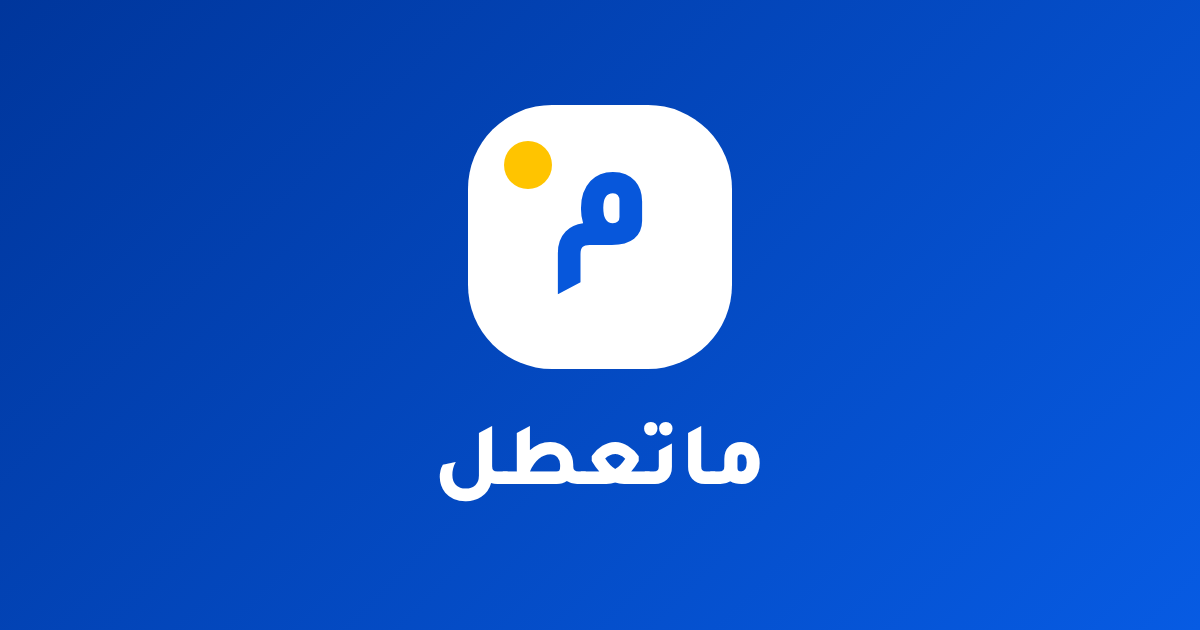
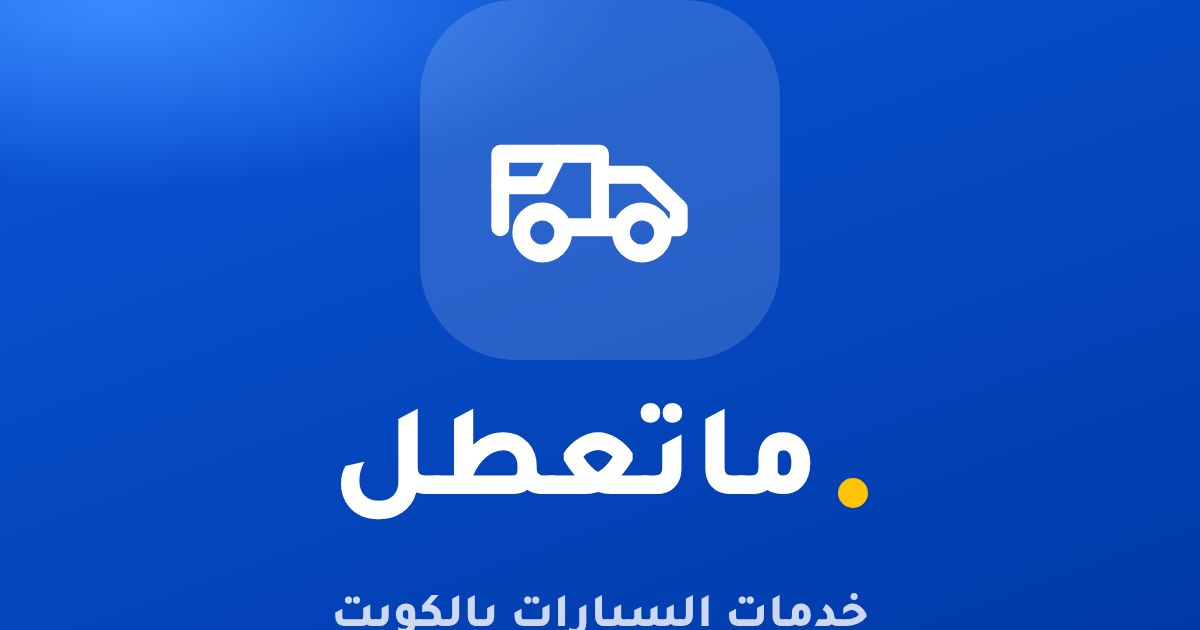
أيقونة تطبيق ماتعطل الجديدة + تحميل التطبيق بضغطة
- أيقونة الشاشة الرئيسية: سطحة واسم ماتعطل والنقطة الصفراء على الأزرق
- شاشات افتتاحية جديدة للآيفون
- زر «تحميل»: تثبيت مباشر على أندرويد/كروم، وشرح مصوّر على الآيفون
- بطاقة التحميل صارت أعلى الرئيسية مع أيقونة التطبيق

Claude-Session: https://claude.ai/code/session_0146Lf518ZNvSUDuRn6RZiVQ

diff --git a/js/app.js b/js/app.js
@@ -6,7 +6,7 @@ import {
 } from './core.js';
 
 initSession('local');
-const VERSION = '4.2.0';
+const VERSION = '4.3.0';
 const COLS = 'id,service_id,name,phone,whatsapp,price_text,rating,rating_count,logo_url,cover_url,photos,description,address,lat,lng,is_24h,is_available,created_at,featured_until,is_sample,company_areas(areas(name_ar)),company_services(service_id)';
 
 /* ================= الحالة ================= */
@@ -219,6 +219,7 @@ function pgHome() {
       <div class="greet"><small>${new Date().getHours() < 12 ? 'صباح الخير' : 'مساء الخير'} 👋</small><h1>وين ما تعطلت...<br>إحنا قريبين منك.</h1></div></div>
     <div class="search-float"><a class="sbtn" href="#/search" aria-label="بحث">${icon('search')}</a><a class="sph" href="#/search">ابحث عن سطحة، بنشر، مفاتيح...</a><a class="sflt" href="#/categories" aria-label="الفلاتر">${icon('filter')}</a></div>
     <a class="sos" href="#/s/tow"><span class="ic">${icon('siren')}</span><span class="t"><b>سيارتك تعطلت؟</b><small>اطلب سطحة الآن وتواصل مباشرة</small></span>${icon('arrowL', 'go')}</a>
+    ${installCard()}
     ${maint ? `<div class="pad" style="margin-top:12px"><div class="note y">${icon('info')}<div>${esc(maint)}</div></div></div>` : ''}
     ${S.err && !S.loaded ? errBox() : ''}
     ${homeAds.length || S.banners.length ? `<section class="sec">${carousel(items.slice(0, homeAds.length + S.banners.length))}</section>` : ''}
@@ -227,7 +228,6 @@ function pgHome() {
     ${featured}
     ${!homeAds.length && !S.banners.length ? `<section class="sec">${carousel(promos())}</section>` : ''}
     <section class="sec"><div class="sec-h"><h2>أحدث مقدمي الخدمات</h2></div>${latest}</section>
-    ${installCard()}
     <div class="footer-note">ماتعطل · منصة خدمات السيارات في الكويت<br>التواصل والدفع يتم مباشرة بينك وبين مقدم الخدمة.</div>`,
     after: el => { initCarousel(el); },
   };
@@ -235,7 +235,7 @@ function pgHome() {
 function installCard() {
   const standalone = matchMedia('(display-mode: standalone)').matches || navigator.standalone;
   if (standalone || store.get('installDismiss')) return '';
-  return `<div class="install-card"><span class="ic">م</span><div style="flex:1"><b>ثبّت تطبيق ماتعطل</b><small>أضفه لشاشتك الرئيسية لوصول أسرع</small></div><button class="btn sm primary" data-act="install">تثبيت</button></div>`;
+  return `<div class="install-card"><img class="app-ic" src="icons/icon-192.png" alt="أيقونة ماتعطل" width="52" height="52"><div style="flex:1"><b>حمّل تطبيق ماتعطل</b><small>أيقونة على شاشتك الرئيسية — يفتح مثل التطبيق</small></div><button class="btn sm primary" data-act="install">${icon('download')}تحميل</button><button class="icon-btn clear" data-act="install-hide" aria-label="إخفاء" style="width:32px;height:32px">${icon('close')}</button></div>`;
 }
 function initCarousel(root) {
   const c = $('[data-carousel]', root); if (!c) return;
@@ -887,6 +887,8 @@ const ACT = {
   'del-ad': async el => { if (!(await confirmBox('إلغاء طلب الإعلان؟', { ok: 'إلغاء الطلب', danger: true }))) return; try { await rest('ad_campaigns?id=eq.' + (+el.dataset.id), { method: 'DELETE' }); toast('تم إلغاء الطلب'); render(true); } catch (e) { toast(errText(e), 'err'); } },
   'clear-recent': () => { S.recent = []; store.set('recent', []); render(true); },
   install: () => installApp(),
+  'install-hide': () => { store.set('installDismiss', 1); render(true); },
+  'copy-link': async () => { try { await navigator.clipboard.writeText(location.origin + location.pathname); toast('تم نسخ الرابط — افتحه في Safari', 'ok'); } catch (_) { toast(location.origin); } },
   theme: () => { const order = ['auto', 'light', 'dark']; const cur = store.get('theme', 'auto'); const n = order[(order.indexOf(cur) + 1) % 3]; store.set('theme', n); applyTheme(); render(true); },
   goreg: (el, e) => { e.preventDefault(); go('/auth'); setTimeout(() => { const b = $('.seg button[data-mode="register"]'); b && b.click(); }, 50); },
 };
@@ -922,13 +924,28 @@ document.addEventListener('input', e => {
 /* ================= PWA ================= */
 addEventListener('beforeinstallprompt', e => { e.preventDefault(); S.installEvt = e; });
 async function installApp() {
-  if (S.installEvt) { S.installEvt.prompt(); try { await S.installEvt.userChoice; } catch (_) { } S.installEvt = null; store.set('installDismiss', 1); render(true); return; }
-  const ios = /iphone|ipad|ipod/i.test(navigator.userAgent);
-  sheet(`<div class="sheet-h"><h3>تثبيت ماتعطل</h3><button class="icon-btn clear" data-close>${icon('close')}</button></div><div class="sheet-body">
-    ${ios ? `<div class="steps" style="margin:0"><div><span>1</span>اضغط زر المشاركة ${icon('share')} أسفل Safari</div><div><span>2</span>اختر «إضافة إلى الشاشة الرئيسية»</div><div><span>3</span>اضغط «إضافة»</div></div>`
-      : `<div class="steps" style="margin:0"><div><span>1</span>افتح قائمة المتصفح (⋮)</div><div><span>2</span>اختر «تثبيت التطبيق» أو «إضافة إلى الشاشة الرئيسية»</div></div>`}
-    <button class="btn ghost block" data-act="install-dismiss" data-close>تم</button></div>`);
-  store.set('installDismiss', 1);
+  // أندرويد/كروم/إيدج: تثبيت مباشر بضغطة واحدة
+  if (S.installEvt) {
+    const ev = S.installEvt; S.installEvt = null;
+    ev.prompt(); let ok = false; try { ok = (await ev.userChoice).outcome === 'accepted'; } catch (_) { }
+    if (ok) { store.set('installDismiss', 1); toast('تم تحميل ماتعطل على شاشتك الرئيسية', 'ok'); render(true); }
+    return;
+  }
+  const ua = navigator.userAgent, ios = /iphone|ipad|ipod/i.test(ua) || (/Macintosh/.test(ua) && navigator.maxTouchPoints > 1);
+  const iosOther = ios && /CriOS|FxiOS|EdgiOS|OPiOS|GSA|FBAN|FBAV|Instagram|Snapchat/i.test(ua);
+  const head = `<div class="inst-head"><img src="icons/icon-192.png" alt="" width="72" height="72"><div><b>ماتعطل</b><small>mat3tl.com</small></div></div>`;
+  let body;
+  if (iosOther) body = `<div class="note y">${icon('info')}<div>على الآيفون التحميل يشتغل من <b>Safari</b> فقط. انسخ الرابط وافتحه في Safari.</div></div>
+    <button class="btn primary block" data-act="copy-link">${icon('share')}نسخ الرابط</button>`;
+  else if (ios) body = `<div class="inst-steps">
+      <div class="st"><span class="n">1</span><span class="tx">اضغط زر <b>المشاركة</b> أسفل الشاشة</span><span class="vis">${icon('share')}</span></div>
+      <div class="st"><span class="n">2</span><span class="tx">اختر <b>«إضافة إلى الشاشة الرئيسية»</b></span><span class="vis">${icon('plus')}</span></div>
+      <div class="st"><span class="n">3</span><span class="tx">اضغط <b>«إضافة»</b> — تظهر أيقونة ماتعطل على شاشتك</span><span class="vis app"><img src="icons/icon-96.png" alt=""></span></div></div>
+    <div class="inst-arrow">${icon('chevD')}زر المشاركة تحت ${icon('chevD')}</div>`;
+  else body = `<div class="inst-steps">
+      <div class="st"><span class="n">1</span><span class="tx">افتح قائمة المتصفح <b>⋮</b> فوق</span><span class="vis">⋮</span></div>
+      <div class="st"><span class="n">2</span><span class="tx">اختر <b>«تثبيت التطبيق»</b> أو <b>«إضافة إلى الشاشة الرئيسية»</b></span><span class="vis app"><img src="icons/icon-96.png" alt=""></span></div></div>`;
+  sheet(`<div class="sheet-h"><h3>تحميل تطبيق ماتعطل</h3><button class="icon-btn clear" data-close>${icon('close')}</button></div><div class="sheet-body">${head}${body}<button class="btn ghost block" data-close>تم</button></div>`);
 }
 function applyTheme() { const t = store.get('theme', 'auto'); t === 'auto' ? document.documentElement.removeAttribute('data-theme') : document.documentElement.setAttribute('data-theme', t); }
 applyTheme();

diff --git a/preview/js/app.js b/preview/js/app.js
@@ -6,7 +6,7 @@ import {
 } from './core.js';
 
 initSession('local');
-const VERSION = '4.2.0';
+const VERSION = '4.3.0';
 const COLS = 'id,service_id,name,phone,whatsapp,price_text,rating,rating_count,logo_url,cover_url,photos,description,address,lat,lng,is_24h,is_available,created_at,featured_until,is_sample,company_areas(areas(name_ar)),company_services(service_id)';
 
 /* ================= الحالة ================= */
@@ -219,6 +219,7 @@ function pgHome() {
       <div class="greet"><small>${new Date().getHours() < 12 ? 'صباح الخير' : 'مساء الخير'} 👋</small><h1>وين ما تعطلت...<br>إحنا قريبين منك.</h1></div></div>
     <div class="search-float"><a class="sbtn" href="#/search" aria-label="بحث">${icon('search')}</a><a class="sph" href="#/search">ابحث عن سطحة، بنشر، مفاتيح...</a><a class="sflt" href="#/categories" aria-label="الفلاتر">${icon('filter')}</a></div>
     <a class="sos" href="#/s/tow"><span class="ic">${icon('siren')}</span><span class="t"><b>سيارتك تعطلت؟</b><small>اطلب سطحة الآن وتواصل مباشرة</small></span>${icon('arrowL', 'go')}</a>
+    ${installCard()}
     ${maint ? `<div class="pad" style="margin-top:12px"><div class="note y">${icon('info')}<div>${esc(maint)}</div></div></div>` : ''}
     ${S.err && !S.loaded ? errBox() : ''}
     ${homeAds.length || S.banners.length ? `<section class="sec">${carousel(items.slice(0, homeAds.length + S.banners.length))}</section>` : ''}
@@ -227,7 +228,6 @@ function pgHome() {
     ${featured}
     ${!homeAds.length && !S.banners.length ? `<section class="sec">${carousel(promos())}</section>` : ''}
     <section class="sec"><div class="sec-h"><h2>أحدث مقدمي الخدمات</h2></div>${latest}</section>
-    ${installCard()}
     <div class="footer-note">ماتعطل · منصة خدمات السيارات في الكويت<br>التواصل والدفع يتم مباشرة بينك وبين مقدم الخدمة.</div>`,
     after: el => { initCarousel(el); },
   };
@@ -235,7 +235,7 @@ function pgHome() {
 function installCard() {
   const standalone = matchMedia('(display-mode: standalone)').matches || navigator.standalone;
   if (standalone || store.get('installDismiss')) return '';
-  return `<div class="install-card"><span class="ic">م</span><div style="flex:1"><b>ثبّت تطبيق ماتعطل</b><small>أضفه لشاشتك الرئيسية لوصول أسرع</small></div><button class="btn sm primary" data-act="install">تثبيت</button></div>`;
+  return `<div class="install-card"><img class="app-ic" src="icons/icon-192.png" alt="أيقونة ماتعطل" width="52" height="52"><div style="flex:1"><b>حمّل تطبيق ماتعطل</b><small>أيقونة على شاشتك الرئيسية — يفتح مثل التطبيق</small></div><button class="btn sm primary" data-act="install">${icon('download')}تحميل</button><button class="icon-btn clear" data-act="install-hide" aria-label="إخفاء" style="width:32px;height:32px">${icon('close')}</button></div>`;
 }
 function initCarousel(root) {
   const c = $('[data-carousel]', root); if (!c) return;
@@ -887,6 +887,8 @@ const ACT = {
   'del-ad': async el => { if (!(await confirmBox('إلغاء طلب الإعلان؟', { ok: 'إلغاء الطلب', danger: true }))) return; try { await rest('ad_campaigns?id=eq.' + (+el.dataset.id), { method: 'DELETE' }); toast('تم إلغاء الطلب'); render(true); } catch (e) { toast(errText(e), 'err'); } },
   'clear-recent': () => { S.recent = []; store.set('recent', []); render(true); },
   install: () => installApp(),
+  'install-hide': () => { store.set('installDismiss', 1); render(true); },
+  'copy-link': async () => { try { await navigator.clipboard.writeText(location.origin + location.pathname); toast('تم نسخ الرابط — افتحه في Safari', 'ok'); } catch (_) { toast(location.origin); } },
   theme: () => { const order = ['auto', 'light', 'dark']; const cur = store.get('theme', 'auto'); const n = order[(order.indexOf(cur) + 1) % 3]; store.set('theme', n); applyTheme(); render(true); },
   goreg: (el, e) => { e.preventDefault(); go('/auth'); setTimeout(() => { const b = $('.seg button[data-mode="register"]'); b && b.click(); }, 50); },
 };
@@ -922,13 +924,28 @@ document.addEventListener('input', e => {
 /* ================= PWA ================= */
 addEventListener('beforeinstallprompt', e => { e.preventDefault(); S.installEvt = e; });
 async function installApp() {
-  if (S.installEvt) { S.installEvt.prompt(); try { await S.installEvt.userChoice; } catch (_) { } S.installEvt = null; store.set('installDismiss', 1); render(true); return; }
-  const ios = /iphone|ipad|ipod/i.test(navigator.userAgent);
-  sheet(`<div class="sheet-h"><h3>تثبيت ماتعطل</h3><button class="icon-btn clear" data-close>${icon('close')}</button></div><div class="sheet-body">
-    ${ios ? `<div class="steps" style="margin:0"><div><span>1</span>اضغط زر المشاركة ${icon('share')} أسفل Safari</div><div><span>2</span>اختر «إضافة إلى الشاشة الرئيسية»</div><div><span>3</span>اضغط «إضافة»</div></div>`
-      : `<div class="steps" style="margin:0"><div><span>1</span>افتح قائمة المتصفح (⋮)</div><div><span>2</span>اختر «تثبيت التطبيق» أو «إضافة إلى الشاشة الرئيسية»</div></div>`}
-    <button class="btn ghost block" data-act="install-dismiss" data-close>تم</button></div>`);
-  store.set('installDismiss', 1);
+  // أندرويد/كروم/إيدج: تثبيت مباشر بضغطة واحدة
+  if (S.installEvt) {
+    const ev = S.installEvt; S.installEvt = null;
+    ev.prompt(); let ok = false; try { ok = (await ev.userChoice).outcome === 'accepted'; } catch (_) { }
+    if (ok) { store.set('installDismiss', 1); toast('تم تحميل ماتعطل على شاشتك الرئيسية', 'ok'); render(true); }
+    return;
+  }
+  const ua = navigator.userAgent, ios = /iphone|ipad|ipod/i.test(ua) || (/Macintosh/.test(ua) && navigator.maxTouchPoints > 1);
+  const iosOther = ios && /CriOS|FxiOS|EdgiOS|OPiOS|GSA|FBAN|FBAV|Instagram|Snapchat/i.test(ua);
+  const head = `<div class="inst-head"><img src="icons/icon-192.png" alt="" width="72" height="72"><div><b>ماتعطل</b><small>mat3tl.com</small></div></div>`;
+  let body;
+  if (iosOther) body = `<div class="note y">${icon('info')}<div>على الآيفون التحميل يشتغل من <b>Safari</b> فقط. انسخ الرابط وافتحه في Safari.</div></div>
+    <button class="btn primary block" data-act="copy-link">${icon('share')}نسخ الرابط</button>`;
+  else if (ios) body = `<div class="inst-steps">
+      <div class="st"><span class="n">1</span><span class="tx">اضغط زر <b>المشاركة</b> أسفل الشاشة</span><span class="vis">${icon('share')}</span></div>
+      <div class="st"><span class="n">2</span><span class="tx">اختر <b>«إضافة إلى الشاشة الرئيسية»</b></span><span class="vis">${icon('plus')}</span></div>
+      <div class="st"><span class="n">3</span><span class="tx">اضغط <b>«إضافة»</b> — تظهر أيقونة ماتعطل على شاشتك</span><span class="vis app"><img src="icons/icon-96.png" alt=""></span></div></div>
+    <div class="inst-arrow">${icon('chevD')}زر المشاركة تحت ${icon('chevD')}</div>`;
+  else body = `<div class="inst-steps">
+      <div class="st"><span class="n">1</span><span class="tx">افتح قائمة المتصفح <b>⋮</b> فوق</span><span class="vis">⋮</span></div>
+      <div class="st"><span class="n">2</span><span class="tx">اختر <b>«تثبيت التطبيق»</b> أو <b>«إضافة إلى الشاشة الرئيسية»</b></span><span class="vis app"><img src="icons/icon-96.png" alt=""></span></div></div>`;
+  sheet(`<div class="sheet-h"><h3>تحميل تطبيق ماتعطل</h3><button class="icon-btn clear" data-close>${icon('close')}</button></div><div class="sheet-body">${head}${body}<button class="btn ghost block" data-close>تم</button></div>`);
 }
 function applyTheme() { const t = store.get('theme', 'auto'); t === 'auto' ? document.documentElement.removeAttribute('data-theme') : document.documentElement.setAttribute('data-theme', t); }
 applyTheme();

diff --git a/index.html b/index.html
@@ -19,8 +19,8 @@
 <meta property="og:image" content="icons/og.png">
 <link rel="manifest" href="manifest.webmanifest">
 <link rel="icon" href="icons/favicon.svg" type="image/svg+xml">
-<link rel="icon" href="icons/icon-192.png" sizes="192x192" type="image/png">
-<link rel="apple-touch-icon" href="icons/apple-touch-icon.png">
+<link rel="icon" href="icons/icon-192.png?v=2" sizes="192x192" type="image/png">
+<link rel="apple-touch-icon" href="icons/apple-touch-icon.png?v=2">
 <link rel="apple-touch-startup-image" media="(device-width: 430px) and (device-height: 932px) and (-webkit-device-pixel-ratio: 3)" href="icons/splash-1290x2796.png">
 <link rel="apple-touch-startup-image" media="(device-width: 393px) and (device-height: 852px) and (-webkit-device-pixel-ratio: 3)" href="icons/splash-1179x2556.png">
 <link rel="apple-touch-startup-image" media="(device-width: 390px) and (device-height: 844px) and (-webkit-device-pixel-ratio: 3)" href="icons/splash-1170x2532.png">
@@ -31,7 +31,7 @@
 <link rel="preconnect" href="https://fonts.googleapis.com">
 <link rel="preconnect" href="https://fonts.gstatic.com" crossorigin>
 <link href="https://fonts.googleapis.com/css2?family=Tajawal:wght@400;500;700;800&display=swap" rel="stylesheet">
-<link rel="stylesheet" href="css/app.css?v=4.2.0">
+<link rel="stylesheet" href="css/app.css?v=4.3.0">
 <link rel="modulepreload" href="js/core.js">
 </head>
 <body>
@@ -47,6 +47,6 @@
   <a href="#/account" data-tab="account"><svg class="i" viewBox="0 0 24 24" aria-hidden="true"><circle cx="12" cy="12" r="9"/><circle cx="12" cy="10" r="3"/><path d="M6.6 18.2c1.2-2 3.1-3.2 5.4-3.2s4.2 1.2 5.4 3.2"/></svg>حسابي</a>
 </nav>
 <noscript><p style="padding:20px;text-align:center">ماتعطل يحتاج تفعيل JavaScript.</p></noscript>
-<script type="module" src="js/app.js?v=4.2.0"></script>
+<script type="module" src="js/app.js?v=4.3.0"></script>
 </body>
 </html>

diff --git a/preview/index.html b/preview/index.html
@@ -18,8 +18,8 @@
 <meta property="og:image" content="icons/og.png">
 <link rel="manifest" href="manifest.webmanifest">
 <link rel="icon" href="icons/favicon.svg" type="image/svg+xml">
-<link rel="icon" href="icons/icon-192.png" sizes="192x192" type="image/png">
-<link rel="apple-touch-icon" href="icons/apple-touch-icon.png">
+<link rel="icon" href="icons/icon-192.png?v=2" sizes="192x192" type="image/png">
+<link rel="apple-touch-icon" href="icons/apple-touch-icon.png?v=2">
 <link rel="apple-touch-startup-image" media="(device-width: 430px) and (device-height: 932px) and (-webkit-device-pixel-ratio: 3)" href="icons/splash-1290x2796.png">
 <link rel="apple-touch-startup-image" media="(device-width: 393px) and (device-height: 852px) and (-webkit-device-pixel-ratio: 3)" href="icons/splash-1179x2556.png">
 <link rel="apple-touch-startup-image" media="(device-width: 390px) and (device-height: 844px) and (-webkit-device-pixel-ratio: 3)" href="icons/splash-1170x2532.png">
@@ -30,7 +30,7 @@
 <link rel="preconnect" href="https://fonts.googleapis.com">
 <link rel="preconnect" href="https://fonts.gstatic.com" crossorigin>
 <link href="https://fonts.googleapis.com/css2?family=Tajawal:wght@400;500;700;800&display=swap" rel="stylesheet">
-<link rel="stylesheet" href="css/app.css?v=4.2.0">
+<link rel="stylesheet" href="css/app.css?v=4.3.0">
 <link rel="modulepreload" href="js/core.js">
 </head>
 <body>
@@ -46,6 +46,6 @@
   <a href="#/account" data-tab="account"><svg class="i" viewBox="0 0 24 24" aria-hidden="true"><circle cx="12" cy="12" r="9"/><circle cx="12" cy="10" r="3"/><path d="M6.6 18.2c1.2-2 3.1-3.2 5.4-3.2s4.2 1.2 5.4 3.2"/></svg>حسابي</a>
 </nav>
 <noscript><p style="padding:20px;text-align:center">ماتعطل يحتاج تفعيل JavaScript.</p></noscript>
-<script type="module" src="js/app.js?v=4.2.0"></script>
+<script type="module" src="js/app.js?v=4.3.0"></script>
 </body>
 </html>

diff --git a/css/app.css b/css/app.css
@@ -484,3 +484,16 @@ body.hide-tabs #app{padding-bottom:calc(84px + var(--bot-safe))}
 .join-hero .ic{width:52px;height:52px;border-radius:16px;background:rgba(255,255,255,.16);display:grid;place-items:center;flex:none}
 .join-hero .ic .i{width:28px;height:28px}
 .join-hero b{display:block;font-size:18px}.join-hero small{opacity:.85;font-size:13.5px}
+.install-card .app-ic{width:52px;height:52px;border-radius:14px;flex:none;box-shadow:0 4px 12px rgba(7,87,219,.25)}
+.install-card{gap:10px;padding:12px}
+.inst-head{display:flex;align-items:center;gap:14px;padding:4px 0 6px}
+.inst-head img{width:72px;height:72px;border-radius:18px;box-shadow:0 8px 20px rgba(7,87,219,.3)}
+.inst-head b{display:block;font-size:20px}.inst-head small{color:var(--mut)}
+.inst-steps{display:grid;gap:10px}
+.inst-steps .st{display:flex;align-items:center;gap:12px;padding:12px;border-radius:16px;background:var(--surface2)}
+.inst-steps .n{width:28px;height:28px;border-radius:9px;background:var(--brand);color:#fff;font-weight:800;display:grid;place-items:center;flex:none}
+.inst-steps .tx{flex:1;font-size:14.5px;line-height:1.6}
+.inst-steps .vis{width:40px;height:40px;border-radius:11px;background:var(--surface);display:grid;place-items:center;color:var(--brand);font-weight:800;font-size:20px;flex:none;border:1px solid var(--line)}
+.inst-steps .vis.app{padding:0;overflow:hidden;border:0}.inst-steps .vis.app img{width:100%;height:100%}
+.inst-arrow{display:flex;align-items:center;justify-content:center;gap:6px;color:var(--brand);font-weight:800;font-size:13.5px;animation:bob 1.2s ease-in-out infinite}
+@keyframes bob{50%{transform:translateY(5px)}}

diff --git a/preview/css/app.css b/preview/css/app.css
@@ -484,3 +484,16 @@ body.hide-tabs #app{padding-bottom:calc(84px + var(--bot-safe))}
 .join-hero .ic{width:52px;height:52px;border-radius:16px;background:rgba(255,255,255,.16);display:grid;place-items:center;flex:none}
 .join-hero .ic .i{width:28px;height:28px}
 .join-hero b{display:block;font-size:18px}.join-hero small{opacity:.85;font-size:13.5px}
+.install-card .app-ic{width:52px;height:52px;border-radius:14px;flex:none;box-shadow:0 4px 12px rgba(7,87,219,.25)}
+.install-card{gap:10px;padding:12px}
+.inst-head{display:flex;align-items:center;gap:14px;padding:4px 0 6px}
+.inst-head img{width:72px;height:72px;border-radius:18px;box-shadow:0 8px 20px rgba(7,87,219,.3)}
+.inst-head b{display:block;font-size:20px}.inst-head small{color:var(--mut)}
+.inst-steps{display:grid;gap:10px}
+.inst-steps .st{display:flex;align-items:center;gap:12px;padding:12px;border-radius:16px;background:var(--surface2)}
+.inst-steps .n{width:28px;height:28px;border-radius:9px;background:var(--brand);color:#fff;font-weight:800;display:grid;place-items:center;flex:none}
+.inst-steps .tx{flex:1;font-size:14.5px;line-height:1.6}
+.inst-steps .vis{width:40px;height:40px;border-radius:11px;background:var(--surface);display:grid;place-items:center;color:var(--brand);font-weight:800;font-size:20px;flex:none;border:1px solid var(--line)}
+.inst-steps .vis.app{padding:0;overflow:hidden;border:0}.inst-steps .vis.app img{width:100%;height:100%}
+.inst-arrow{display:flex;align-items:center;justify-content:center;gap:6px;color:var(--brand);font-weight:800;font-size:13.5px;animation:bob 1.2s ease-in-out infinite}
+@keyframes bob{50%{transform:translateY(5px)}}

diff --git a/preview/sw.js b/preview/sw.js
@@ -1,7 +1,7 @@
 // ماتعطل — Service Worker آمن
 // يخزّن ملفات الواجهة الثابتة فقط. لا يخزّن أي طلبات للخادم (Supabase) أو بيانات الحساب أو لوحة الإدارة.
-const VERSION = 'm3-v4.2.0';
-const SHELL = ['./', './index.html', './css/app.css?v=4.2.0', './js/core.js', './js/app.js?v=4.2.0', './manifest.webmanifest',
+const VERSION = 'm3-v4.3.0';
+const SHELL = ['./', './index.html', './css/app.css?v=4.3.0', './js/core.js', './js/app.js?v=4.3.0', './manifest.webmanifest',
   './icons/icon-192.png', './icons/icon-512.png', './icons/favicon.svg', './icons/apple-touch-icon.png'];
 self.addEventListener('install', e => { e.waitUntil(caches.open(VERSION).then(c => c.addAll(SHELL)).then(() => self.skipWaiting())); });
 self.addEventListener('activate', e => { e.waitUntil(caches.keys().then(ks => Promise.all(ks.filter(k => k !== VERSION && k.startsWith('m3-')).map(k => caches.delete(k)))).then(() => self.clients.claim())); });

diff --git a/sw.js b/sw.js
@@ -1,7 +1,7 @@
 // ماتعطل — Service Worker آمن
 // يخزّن ملفات الواجهة الثابتة فقط. لا يخزّن أي طلبات للخادم (Supabase) أو بيانات الحساب أو لوحة الإدارة.
-const VERSION = 'm3-v4.2.0';
-const SHELL = ['./', './index.html', './css/app.css?v=4.2.0', './js/core.js', './js/app.js?v=4.2.0', './manifest.webmanifest',
+const VERSION = 'm3-v4.3.0';
+const SHELL = ['./', './index.html', './css/app.css?v=4.3.0', './js/core.js', './js/app.js?v=4.3.0', './manifest.webmanifest',
   './icons/icon-192.png', './icons/icon-512.png', './icons/favicon.svg', './icons/apple-touch-icon.png'];
 self.addEventListener('install', e => { e.waitUntil(caches.open(VERSION).then(c => c.addAll(SHELL)).then(() => self.skipWaiting())); });
 self.addEventListener('activate', e => { e.waitUntil(caches.keys().then(ks => Promise.all(ks.filter(k => k !== VERSION && k.startsWith('m3-')).map(k => caches.delete(k)))).then(() => self.clients.claim())); });

diff --git a/admin.html b/admin.html
@@ -10,11 +10,11 @@
 <link rel="icon" href="icons/favicon.svg" type="image/svg+xml">
 <link rel="preconnect" href="https://fonts.gstatic.com" crossorigin>
 <link href="https://fonts.googleapis.com/css2?family=Tajawal:wght@400;500;700;800&display=swap" rel="stylesheet">
-<link rel="stylesheet" href="css/app.css?v=4.2.0">
-<link rel="stylesheet" href="css/admin.css?v=4.2.0">
+<link rel="stylesheet" href="css/app.css?v=4.3.0">
+<link rel="stylesheet" href="css/admin.css?v=4.3.0">
 </head>
 <body class="admin">
 <div id="adm"></div>
-<script type="module" src="js/admin.js?v=4.2.0"></script>
+<script type="module" src="js/admin.js?v=4.3.0"></script>
 </body>
 </html>

diff --git a/preview/admin.html b/preview/admin.html
@@ -10,11 +10,11 @@
 <link rel="icon" href="icons/favicon.svg" type="image/svg+xml">
 <link rel="preconnect" href="https://fonts.gstatic.com" crossorigin>
 <link href="https://fonts.googleapis.com/css2?family=Tajawal:wght@400;500;700;800&display=swap" rel="stylesheet">
-<link rel="stylesheet" href="css/app.css?v=4.2.0">
-<link rel="stylesheet" href="css/admin.css?v=4.2.0">
+<link rel="stylesheet" href="css/app.css?v=4.3.0">
+<link rel="stylesheet" href="css/admin.css?v=4.3.0">
 </head>
 <body class="admin">
 <div id="adm"></div>
-<script type="module" src="js/admin.js?v=4.2.0"></script>
+<script type="module" src="js/admin.js?v=4.3.0"></script>
 </body>
 </html>
